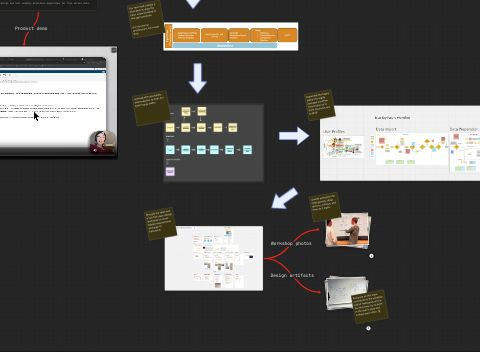
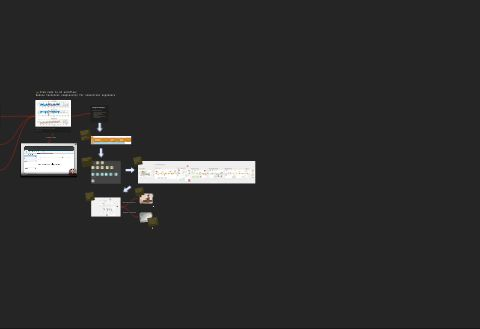
Update canvas

diff --git a/src/ui/tokens.ts b/src/ui/tokens.ts
@@ -205,8 +205,8 @@ export const tokenValues = {
   'component.canvas-reveal.fade-in': "220ms",
   'component.canvas-reveal.fade-out': "420ms",
   'component.canvas-reveal.follow': "0.22",
-  'component.loading-bar.height': "3px",
-  'component.loading-bar.color': "#4f6bed",
+  'component.loading-bar.height': "12px",
+  'component.loading-bar.color': "#ef2415",
   'component.loading-bar.creep': "4000ms",
   'component.loading-bar.finish': "240ms",
   'component.canvas-panel.width-ratio': "0.2",

diff --git a/src/ui/tokens.css b/src/ui/tokens.css
@@ -204,8 +204,8 @@
   --canvas-reveal-fade-in: 220ms;
   --canvas-reveal-fade-out: 420ms;
   --canvas-reveal-follow: 0.22;
-  --loading-bar-height: 3px;
-  --loading-bar-color: var(--color-accent);
+  --loading-bar-height: 12px;
+  --loading-bar-color: #ef2415;
   --loading-bar-creep: 4000ms;
   --loading-bar-finish: 240ms;
   --canvas-panel-width-ratio: 0.2;

diff --git a/DESIGN.md b/DESIGN.md
@@ -853,8 +853,8 @@ _Generated from `design/tokens.json` by `npm run tokens`. Edit the JSON, not thi
 
 | CSS variable | Value | Dark | Use |
 | --- | --- | --- | --- |
-| `--loading-bar-height` | `3px` | — |  |
-| `--loading-bar-color` | `var(--color-accent) → #4f6bed` | follows alias |  |
+| `--loading-bar-height` | `12px` | — |  |
+| `--loading-bar-color` | `#ef2415` | — | A bright red, the same in both modes. |
 | `--loading-bar-creep` | `4000ms` | — | Time to creep to 90% while waiting; it never reaches the end until loading is done. |
 | `--loading-bar-finish` | `240ms` | — | Running to the end and fading out once the canvas is ready. |
 
